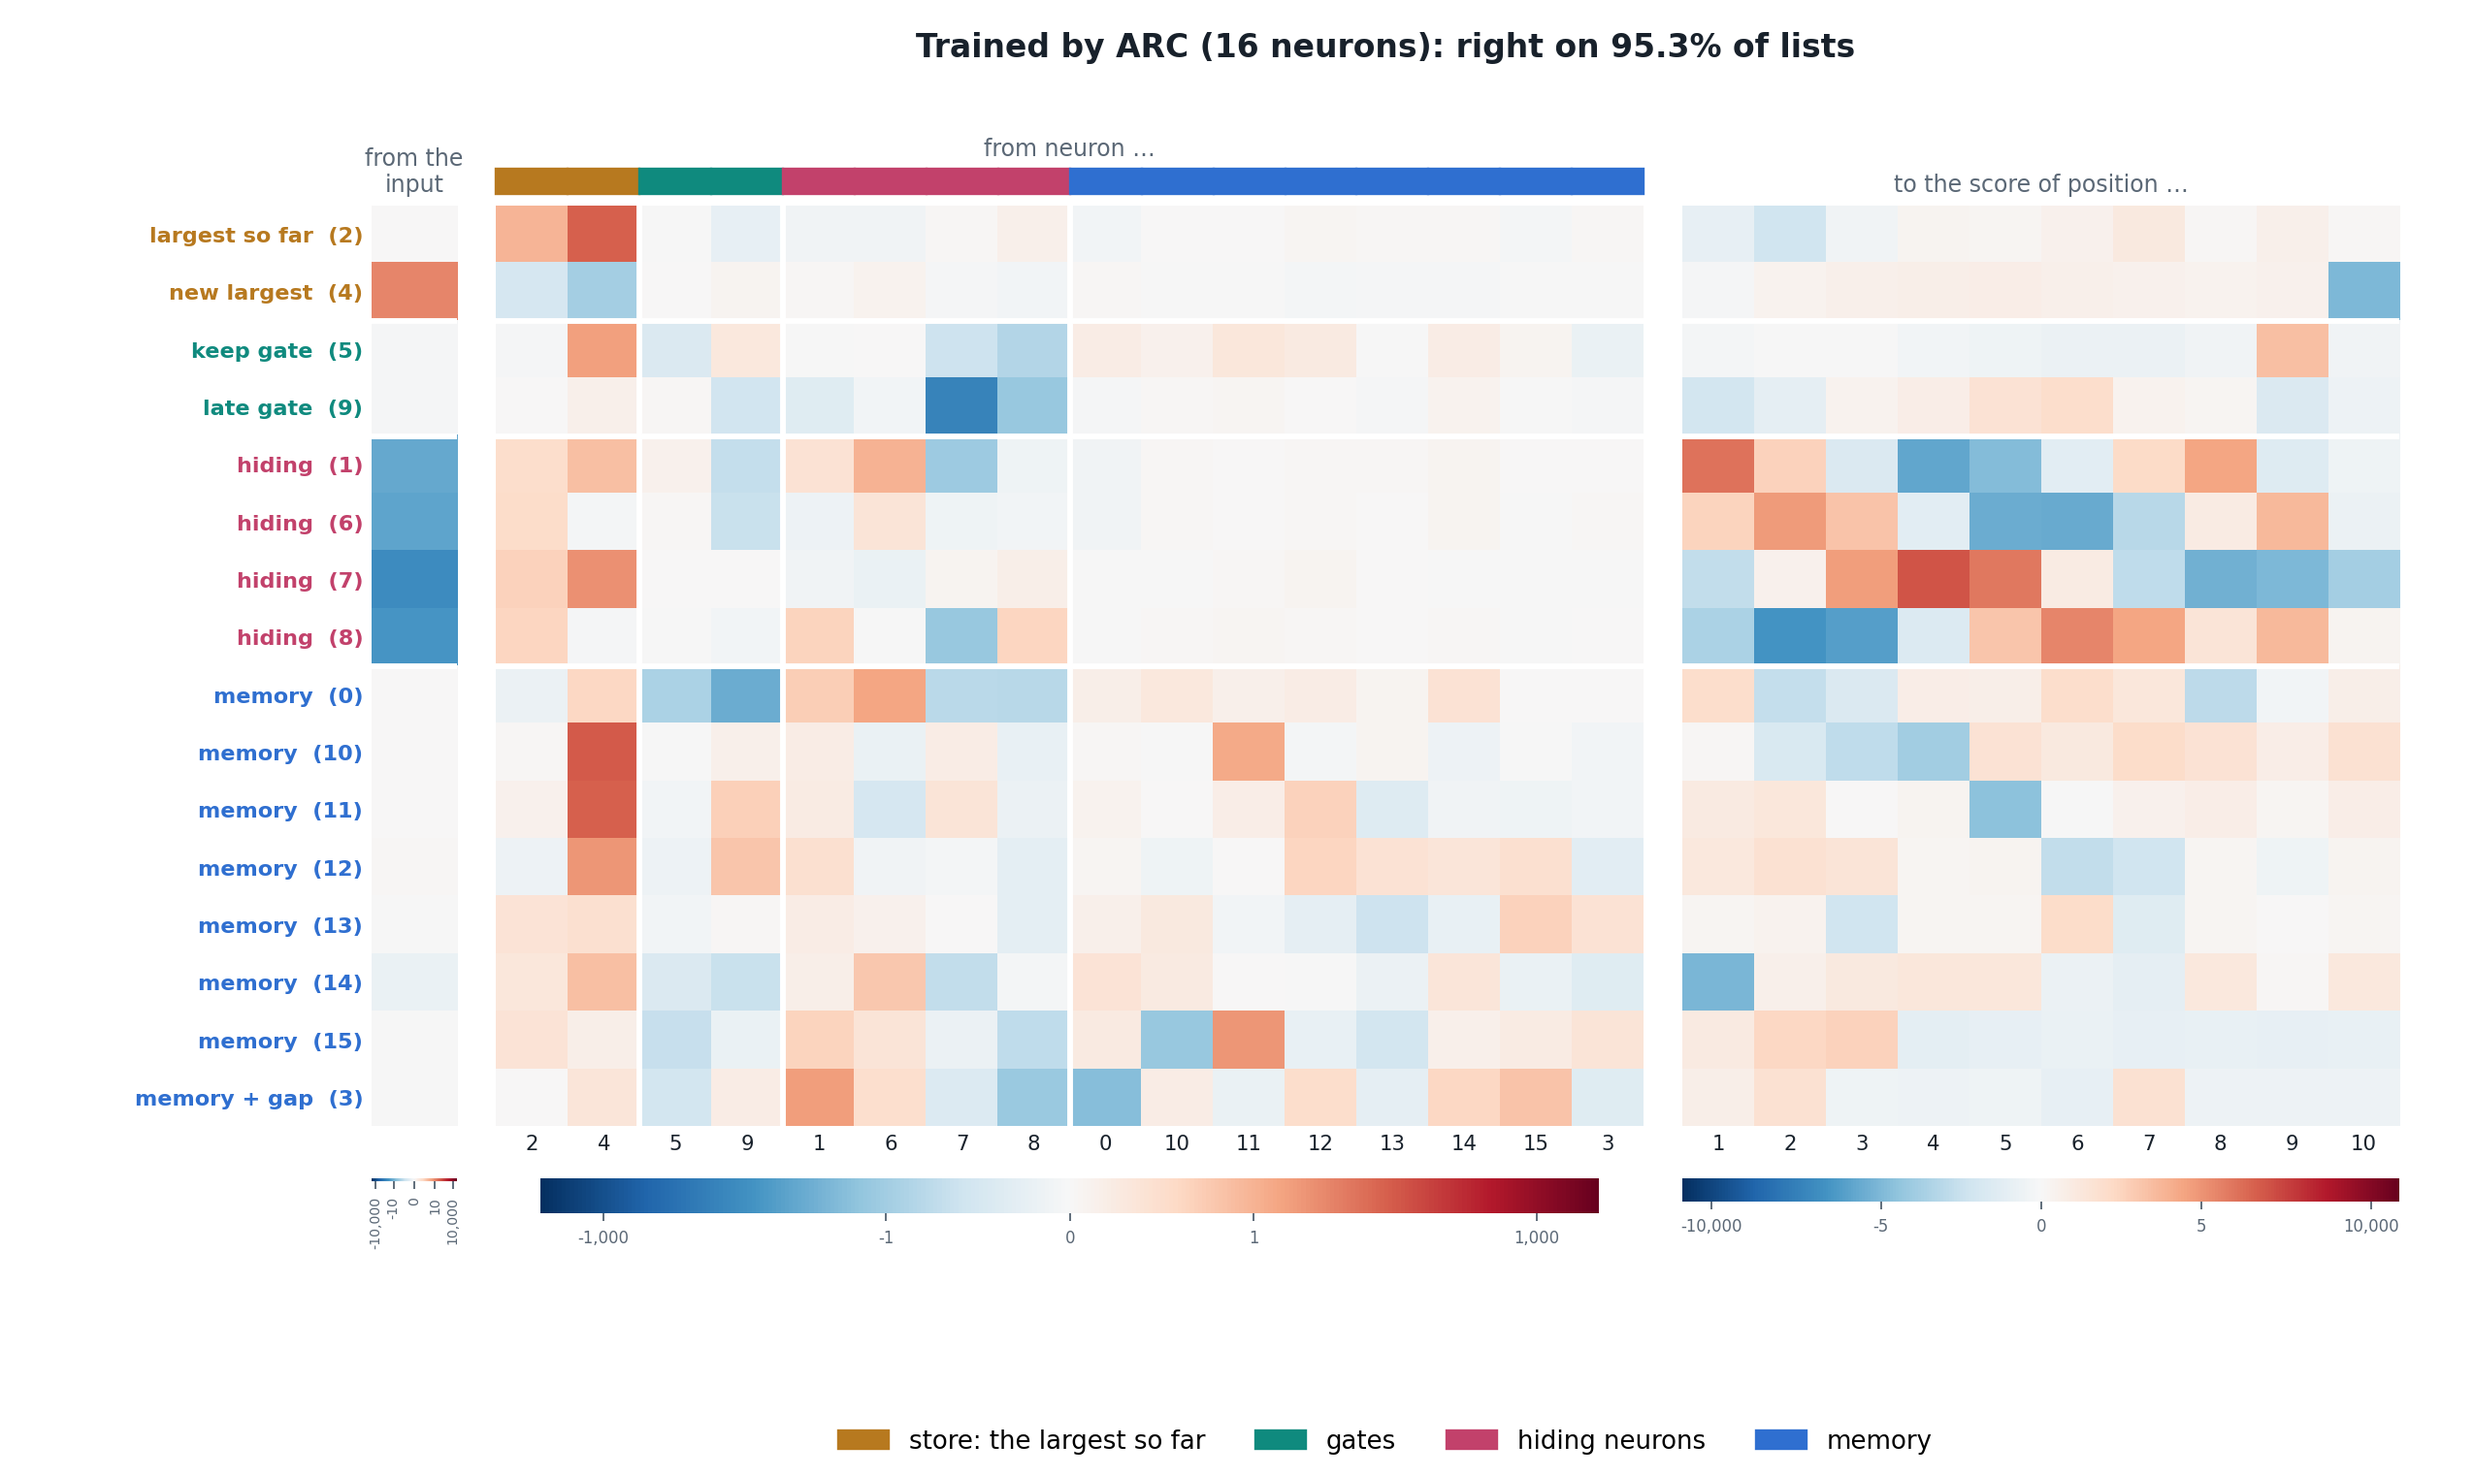
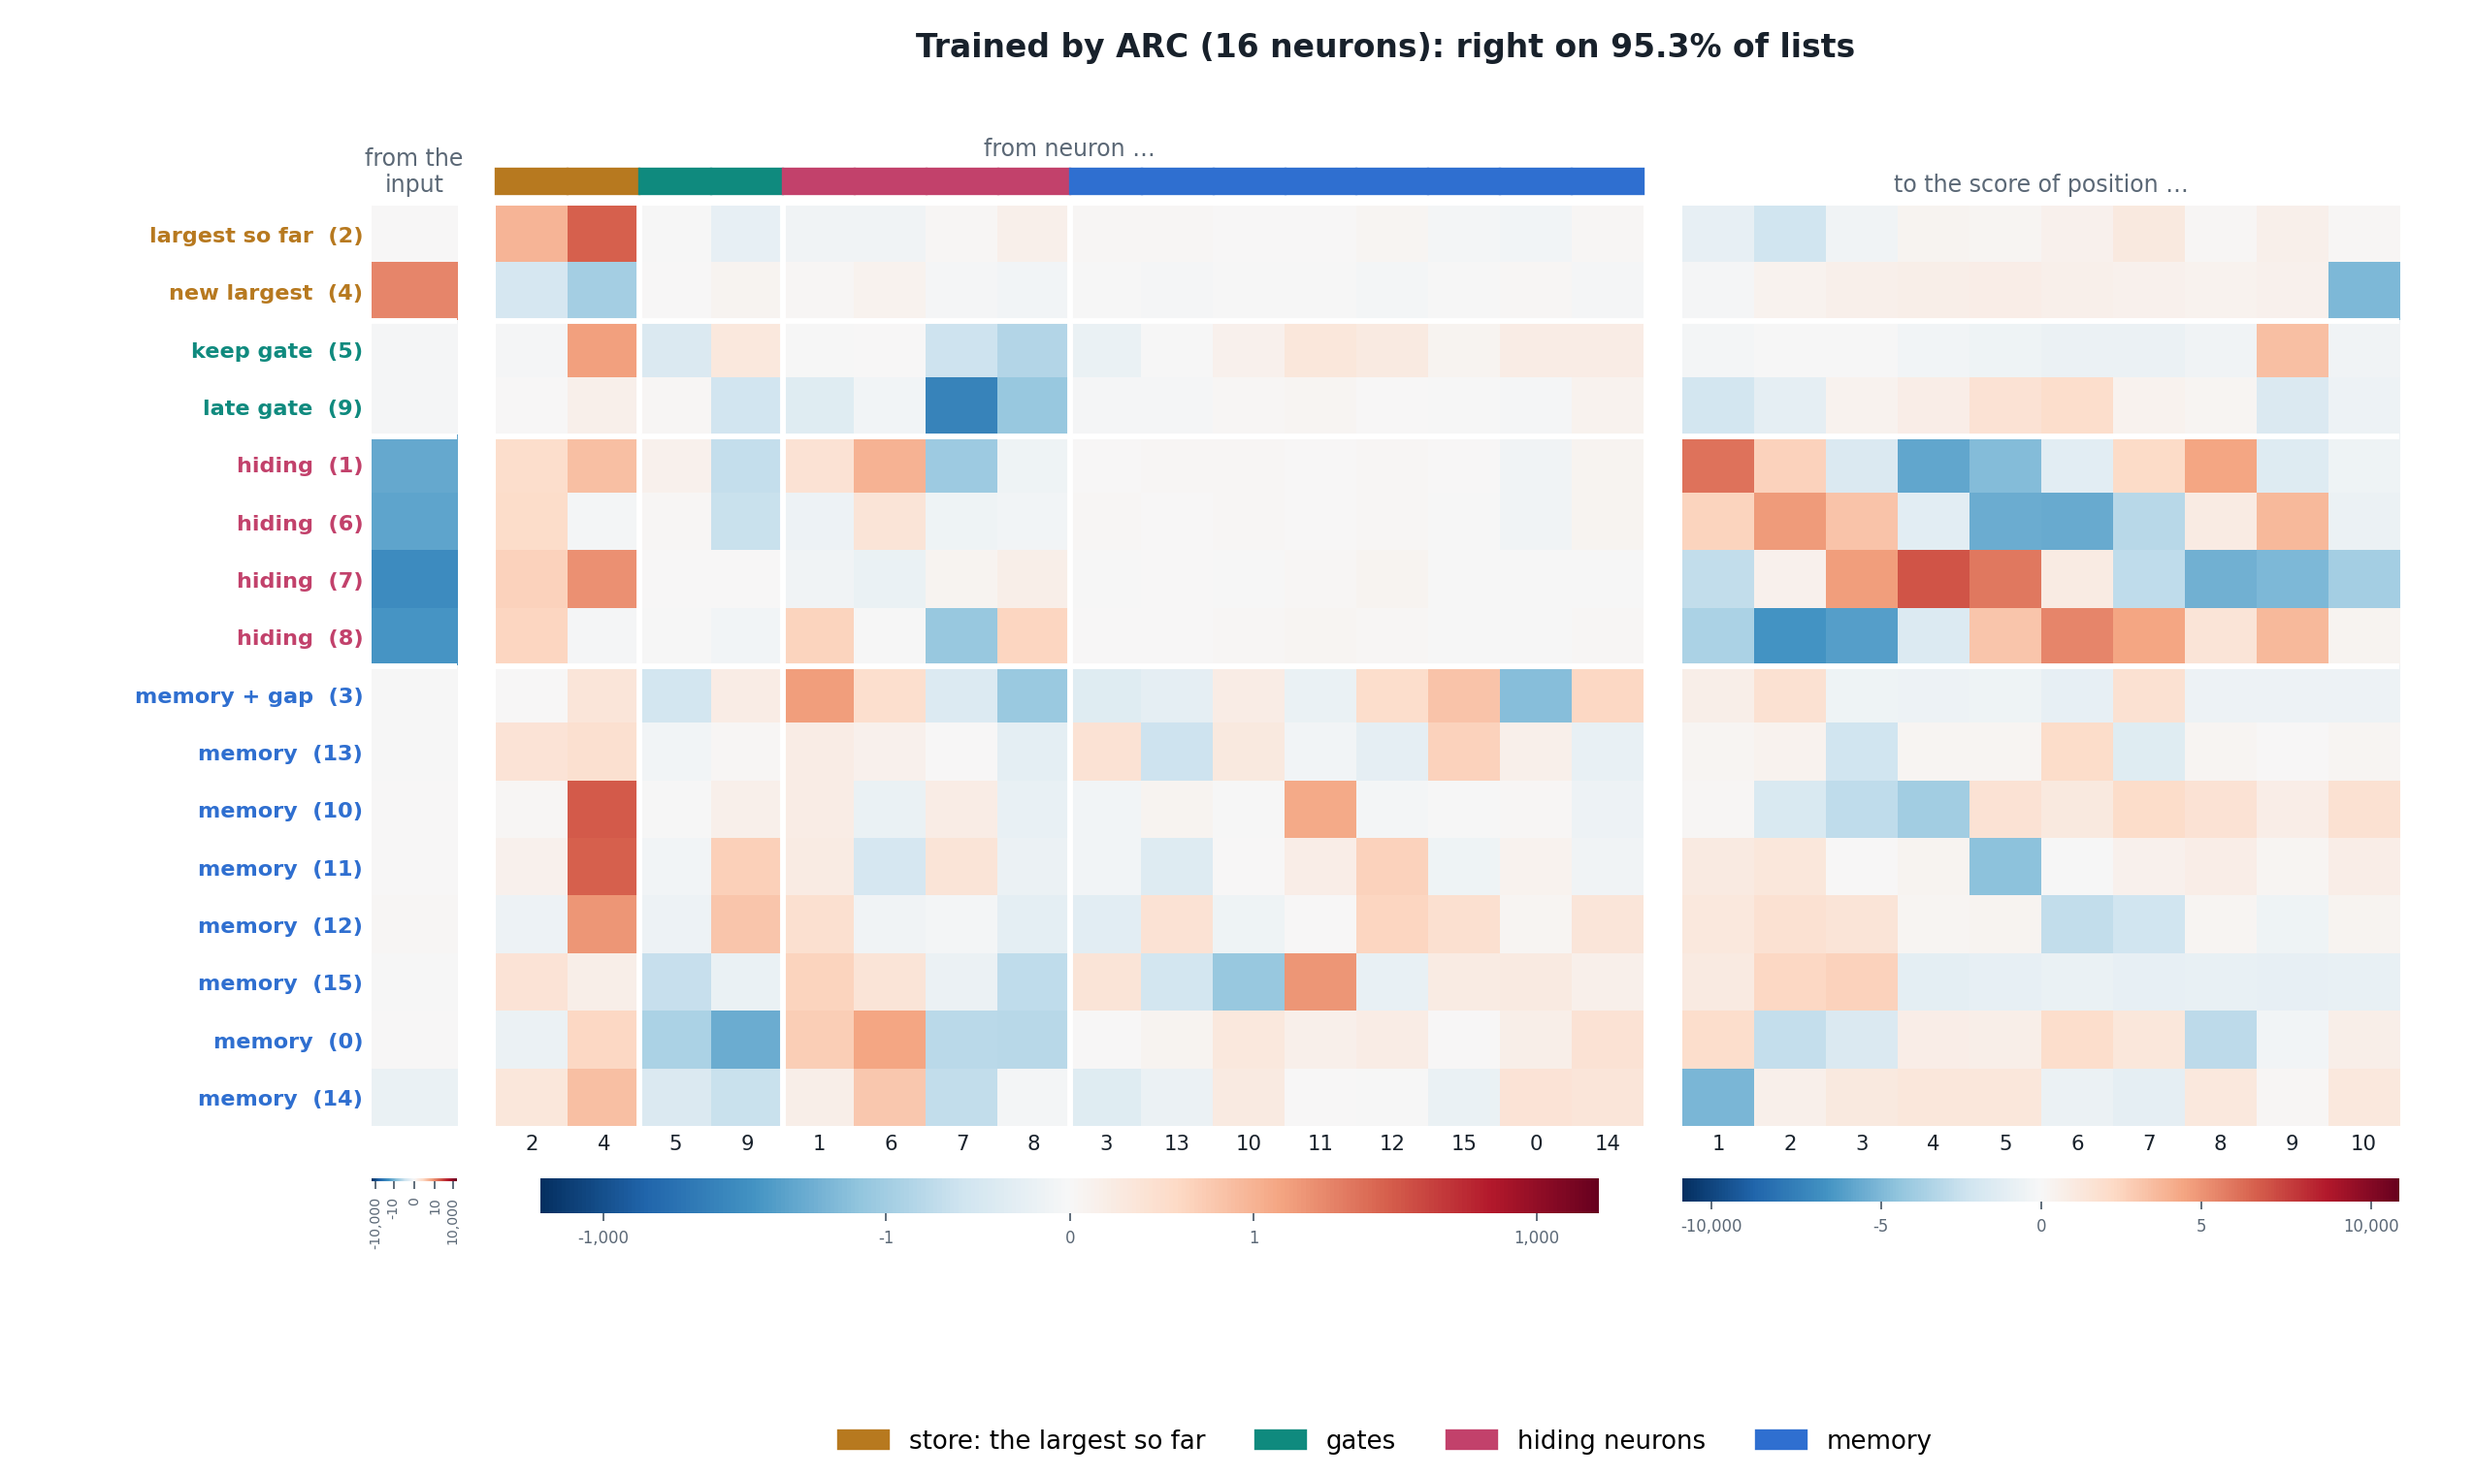
ARC weight figure: memory rows in the 16-neuron copy's order

diff --git a/research/20261017_handbuilt/paper/figures/fig_v4_weights3.py b/research/20261017_handbuilt/paper/figures/fig_v4_weights3.py
@@ -88,7 +88,6 @@ def draw(P, rows, title, out):
     big = [float(np.abs(a).max()) for a in (wi, wh, wo)]
     print(out, "max |weight| input, recurrent, readout:", [round(b, 1) for b in big])
 
-draw([np.asarray(p, float) for p in example()], rows_arc, "Trained by ARC (16 neurons)", "fig_v4_weights_arc.png")
 A = [np.asarray(p, float) for p in example()]; RA = rms(A)
 P16 = [np.asarray(p, float) for p in load("r6a_gap").weights()]
 P16 = rescale(P16, RA)
@@ -107,5 +106,9 @@ def chain_order(P, rows, is_cell):
     return rest[:first] + cells + rest[first:]
 rows_16 = chain_order(P16, rows_16, lambda r: r[2] == "memory")
 rows_24 = chain_order(P24, rows_24, lambda r: r[1].startswith("memory") and r[0] != I["linear"])
+# ARC's memory rows in the same slot order as the 16-neuron copy, so the two figures line up row for row
+_slots16 = [r[0] for r in rows_16 if r[2] == "memory"]
+rows_arc = [r for r in rows_arc if r[2] != "memory"] + sorted([r for r in rows_arc if r[2] == "memory"], key=lambda r: _slots16.index(r[0]))
+draw([np.asarray(p, float) for p in example()], rows_arc, "Trained by ARC (16 neurons)", "fig_v4_weights_arc.png")
 draw(P16, rows_16, "Built by hand, 16 neurons", "fig_v4_weights_hb16.png")
 draw(P24, rows_24, "Built by hand, 24 neurons", "fig_v4_weights_hb24.png")
